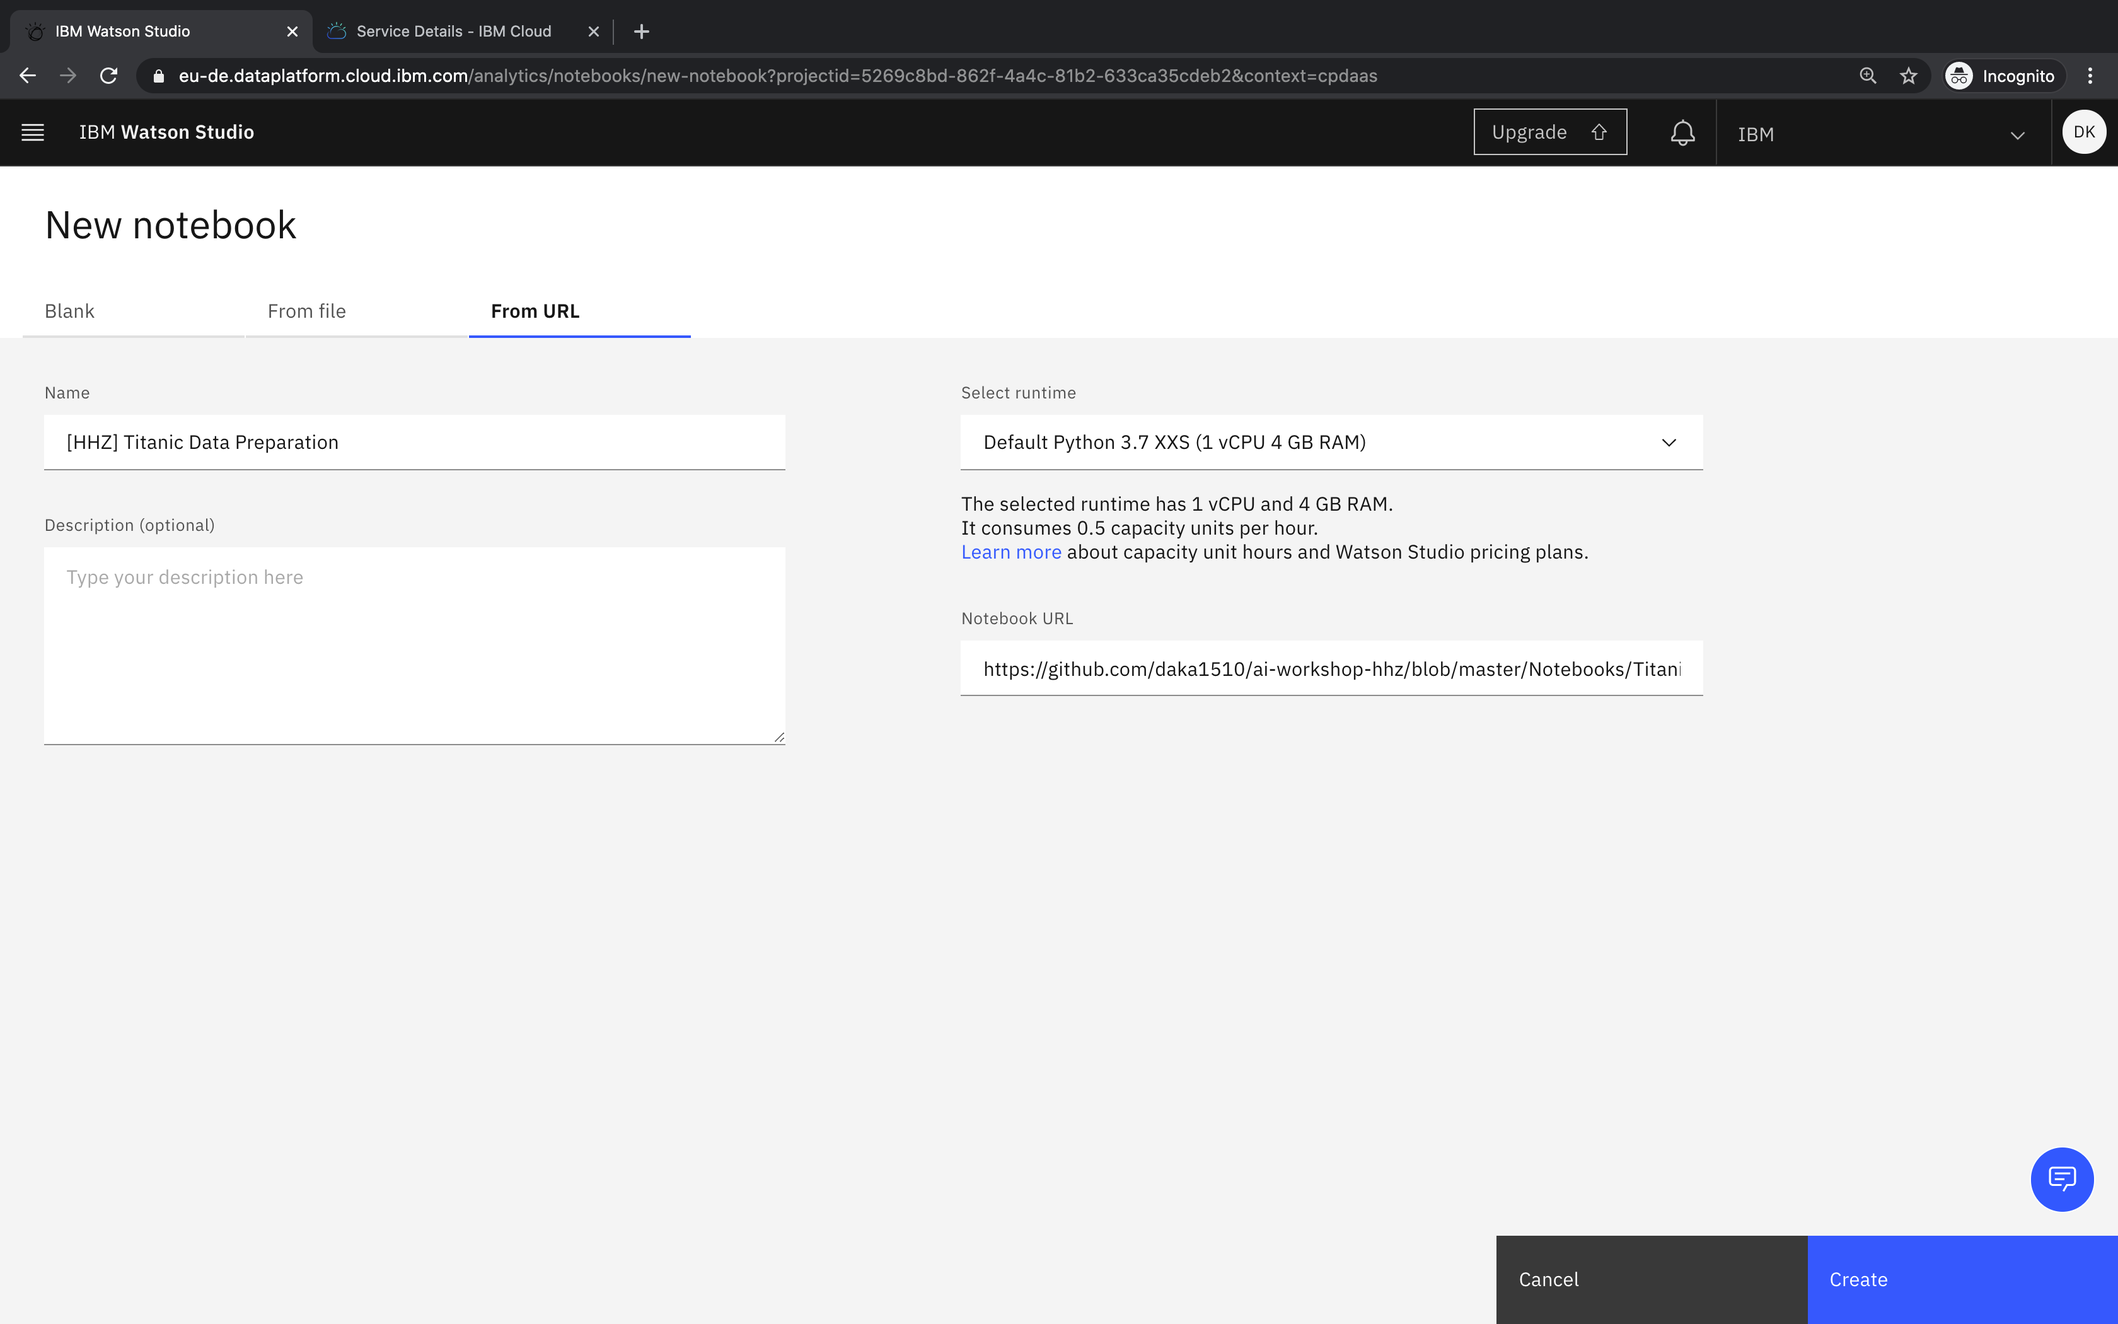
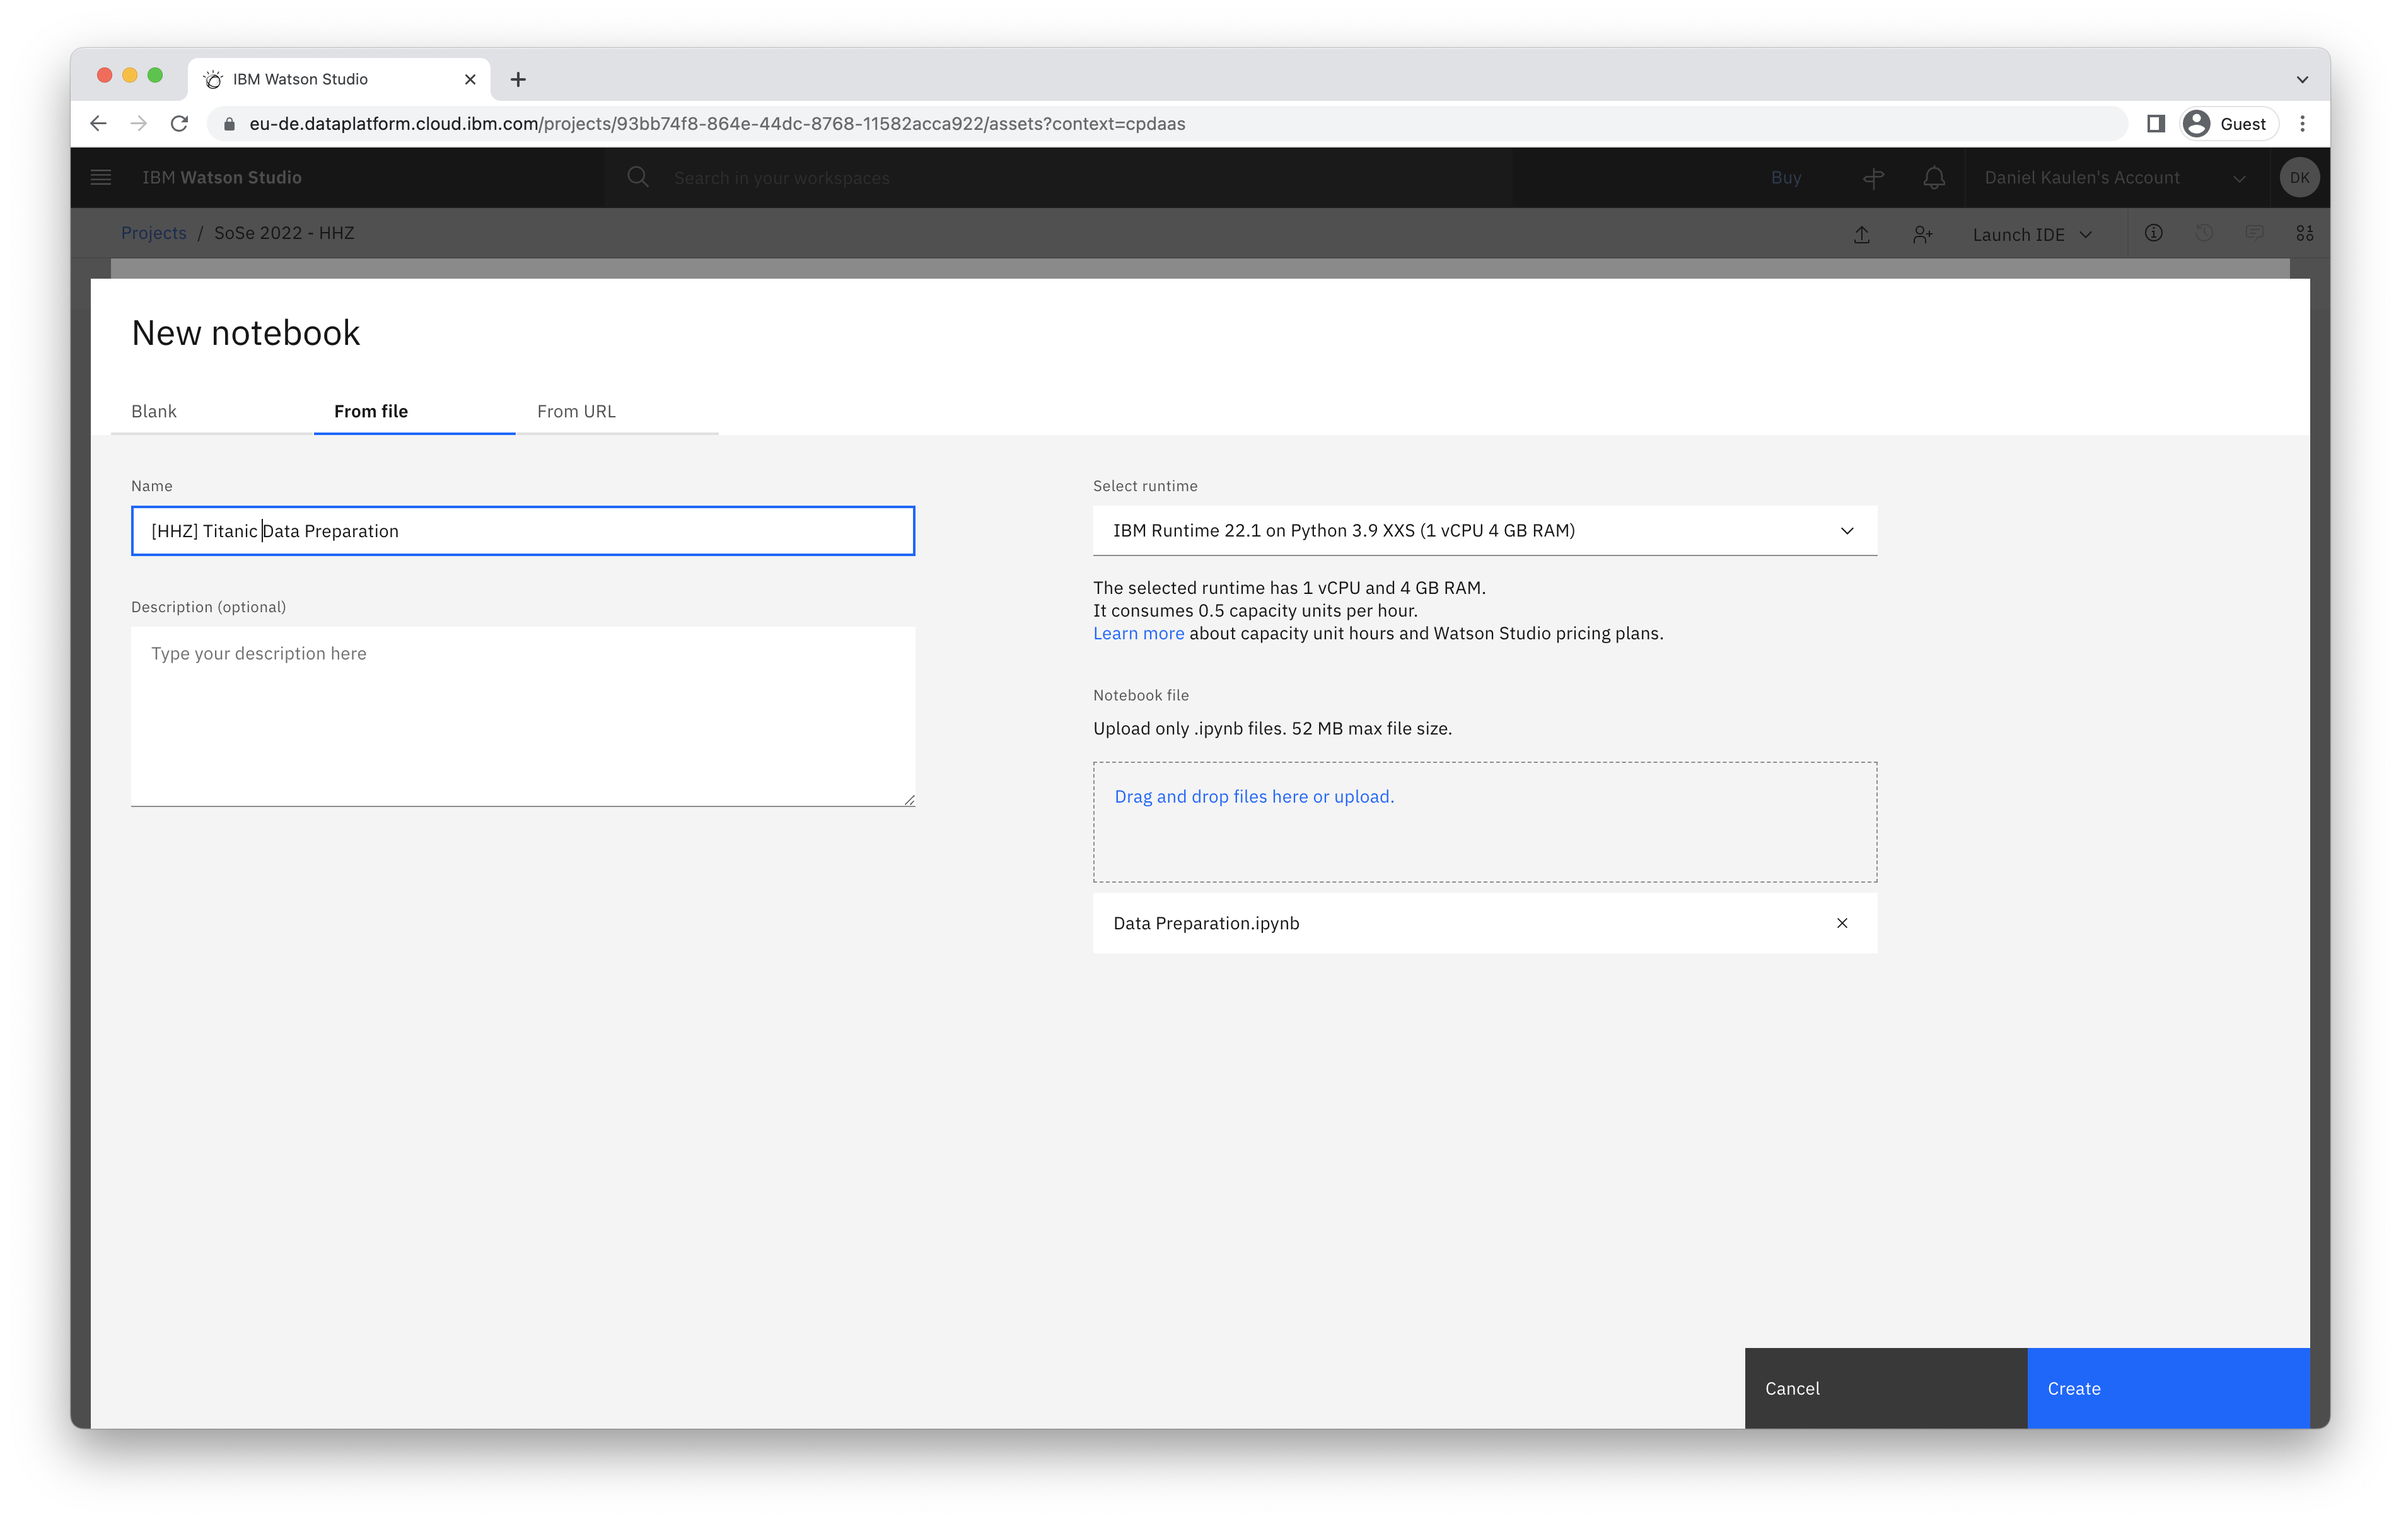
updates

diff --git a/Guidelines/create-notebook/README.md b/Guidelines/create-notebook/README.md
@@ -1,15 +1,14 @@
 ## How can I create a new notebook?
 
 - Access your project
-- Click _Add to project_ in the navigation bar
+- Click _New asset_ in the navigation bar
 ![](./screenshots/1.png)
-- Choose _Notebook_ as asset type
+- Choose _Jupyter notebook editor_ as asset type
 ![](./screenshots/2.png)
-- You can choose to create a new empty notebook, or create a notebook from an existing file or URL. The "Default Python 3.x XXS" runtime offers enough resources to work through the exercises (choose the latest available Python version).
-![](./screenshots/3a.png)
-![](./screenshots/3b.png)
+- You can choose to create a new empty notebook, or create a notebook from an existing file or URL. The shown runtime with 1vCPU and 4GB RAM offers enough resources to work through the exercises (choose the latest available version).
+![](./screenshots/3.png)
 ![](./screenshots/4.png)
-- Click _Create_ to create and start the notebook
+- Click _Create_ to create the notebook and instantiate the selected runtime
 ![](./screenshots/5.png)
 - Once the runtime is started, you are able to edit and execute cells of the notebook
 ![](./screenshots/6.png)

diff --git a/Guidelines/insert-project-token/README.md b/Guidelines/insert-project-token/README.md
@@ -3,15 +3,12 @@
 - Open your notebook in edit mode
 - Click on the three vertical dots and select insert project token
 ![](./screenshots/1.png)
-  - If you just imported your notebook from file, or from URL and see an error message when trying to insert a project token, reload the page and try again.
-- If no project token is set, follow the link to create a new project token
+- If no project token is set, follow the link to create a new project access token
 ![](./screenshots/2.png)
-- Scroll down on the project settings page and click _New token_
-![](./screenshots/3.png)
 - Enter token details in the modal dialog (select Editor rights to ensure you can create and read files in your project)
-![](./screenshots/4.png)
+![](./screenshots/3.png)
 - Go back to your project, and select "Insert project token" again
-![](./screenshots/5.png)
+![](./screenshots/4.png)
 - Run the first cell that was inserted to your notebook
 
 ### Related links

diff --git a/Guidelines/upload-data-files/README.md b/Guidelines/upload-data-files/README.md
@@ -1,0 +1,14 @@
+# How can I upload data files to my project?
+
+The approach described below is suitable for adding data files (e.g. .csv, .xlsx) to your project. Notebook assets (.ipynb) must be created via a dedicated UI because it requires to specify additional metadata during the creation.   
+
+- Access your project
+![](./screenshots/1.png)
+- Open the navigatino menu on the right
+![](./screenshots/2.png)
+- Upload your file(s) and click "See latest updates" to refresh the asset section
+![](./screenshots/3.png)
+![](./screenshots/4.png)
+
+### Related links
+- [Documentation - Adding data to a project](https://dataplatform.cloud.ibm.com/docs/content/wsj/manage-data/add-data-project.html)

diff --git a/Guidelines/README.md b/Guidelines/README.md
@@ -9,7 +9,7 @@ This folder contains guidelines that walk you through common tasks needed to com
 - [How can I create a new project?](./create-project)
 - [How can I create a new deployment space and retrieve the space ID?](./create-deployment-space)
 - [How can I create a new notebook?](./create-notebook)
-- [How can I upload data assets to my project?](./upload-assets)
+- [How can I upload data files to my project?](./upload-data-files)
 - [How can I create a Watson Machine Learning service?](./create-machine-learning-service)
 - [How can I add a project token to my notebook?](./insert-project-token)
 - [How can I create an IBM Cloud API key?](./create-ibm-cloud-api-key)
